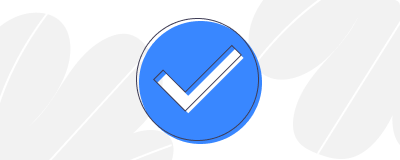
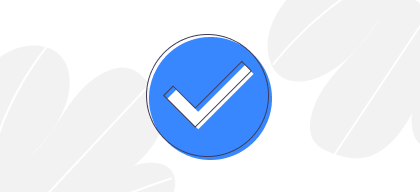
onboarding: Fixed image sizes.

Changed region(s): [[0.33, 0.0938, 0.66, 0.9062]]

diff --git a/apps/onboarding/main.cpp b/apps/onboarding/main.cpp
@@ -37,12 +37,13 @@ int main(int argc, char **argv)
 
     auto illustration = new Panel(dialog);
 
-    illustration->max_height(160);
     illustration->min_height(160);
     illustration->border_radius(6);
     illustration->color(THEME_MIDDLEGROUND, Colors::WHITE);
 
     auto image = new Image(illustration, Bitmap::placeholder());
+    image->flags(Widget::FILL);
+    image->scaling(BitmapScaling::CENTER);
 
     auto content = new Container(dialog);
     content->flags(Widget::FILL);

diff --git a/libraries/libwidget/Image.cpp b/libraries/libwidget/Image.cpp
@@ -36,7 +36,5 @@ void Image::paint(Painter &painter, const Recti &)
         return;
     }
 
-    Recti destination = bound();
-
-    painter.blit(*_bitmap, _scaling, destination);
+    painter.blit(*_bitmap, _scaling, bound());
 }
